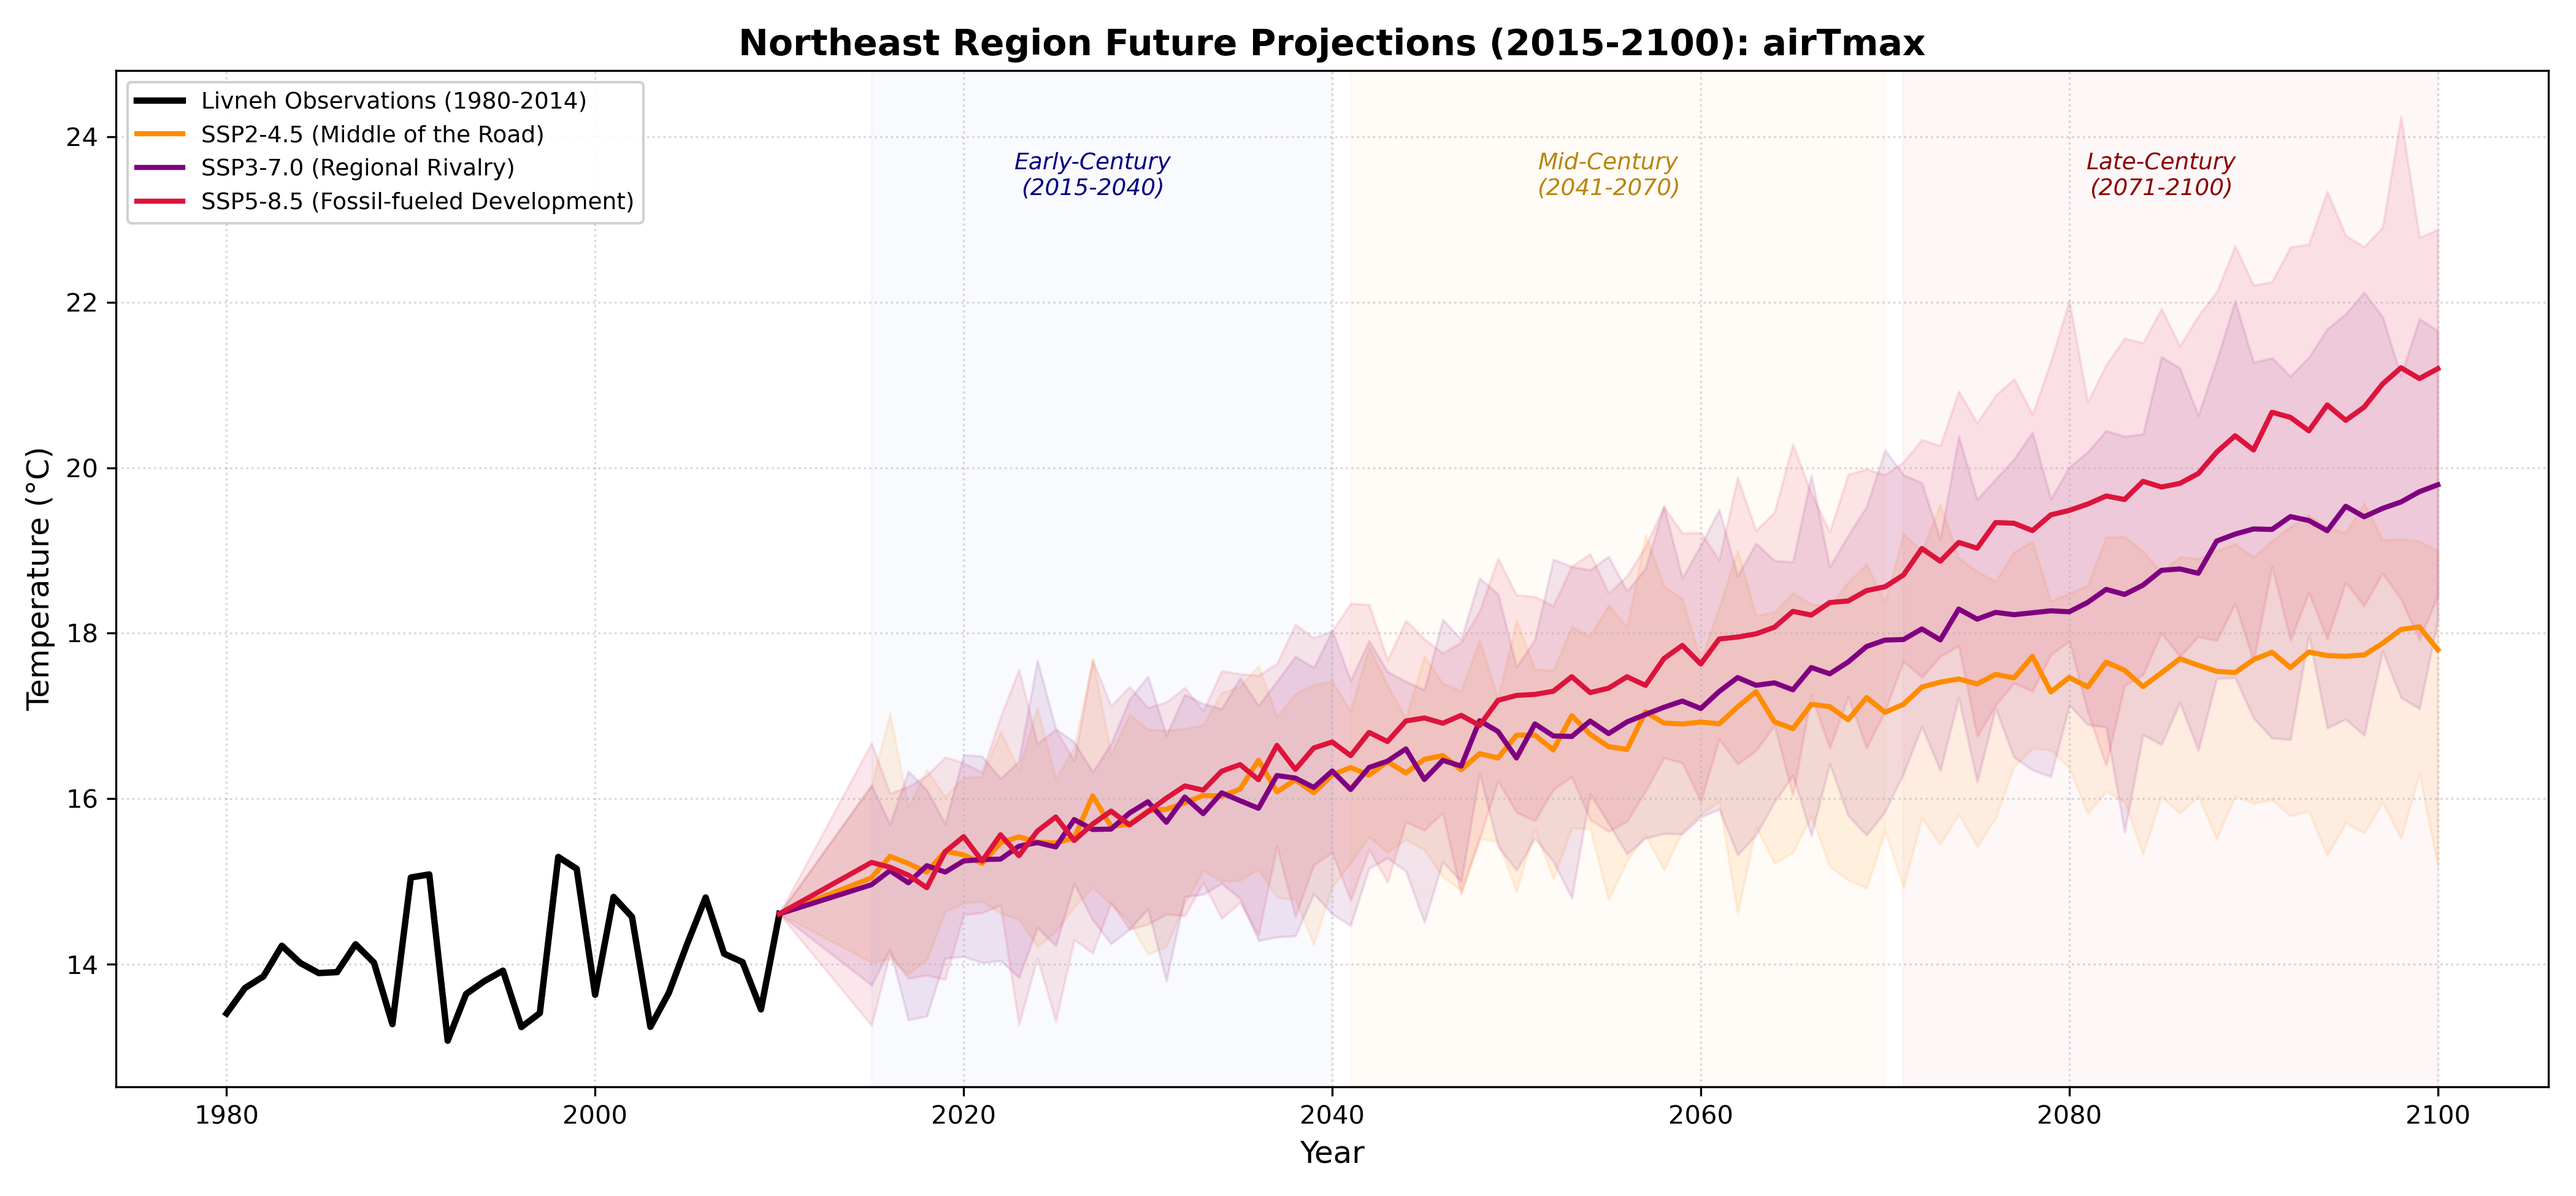
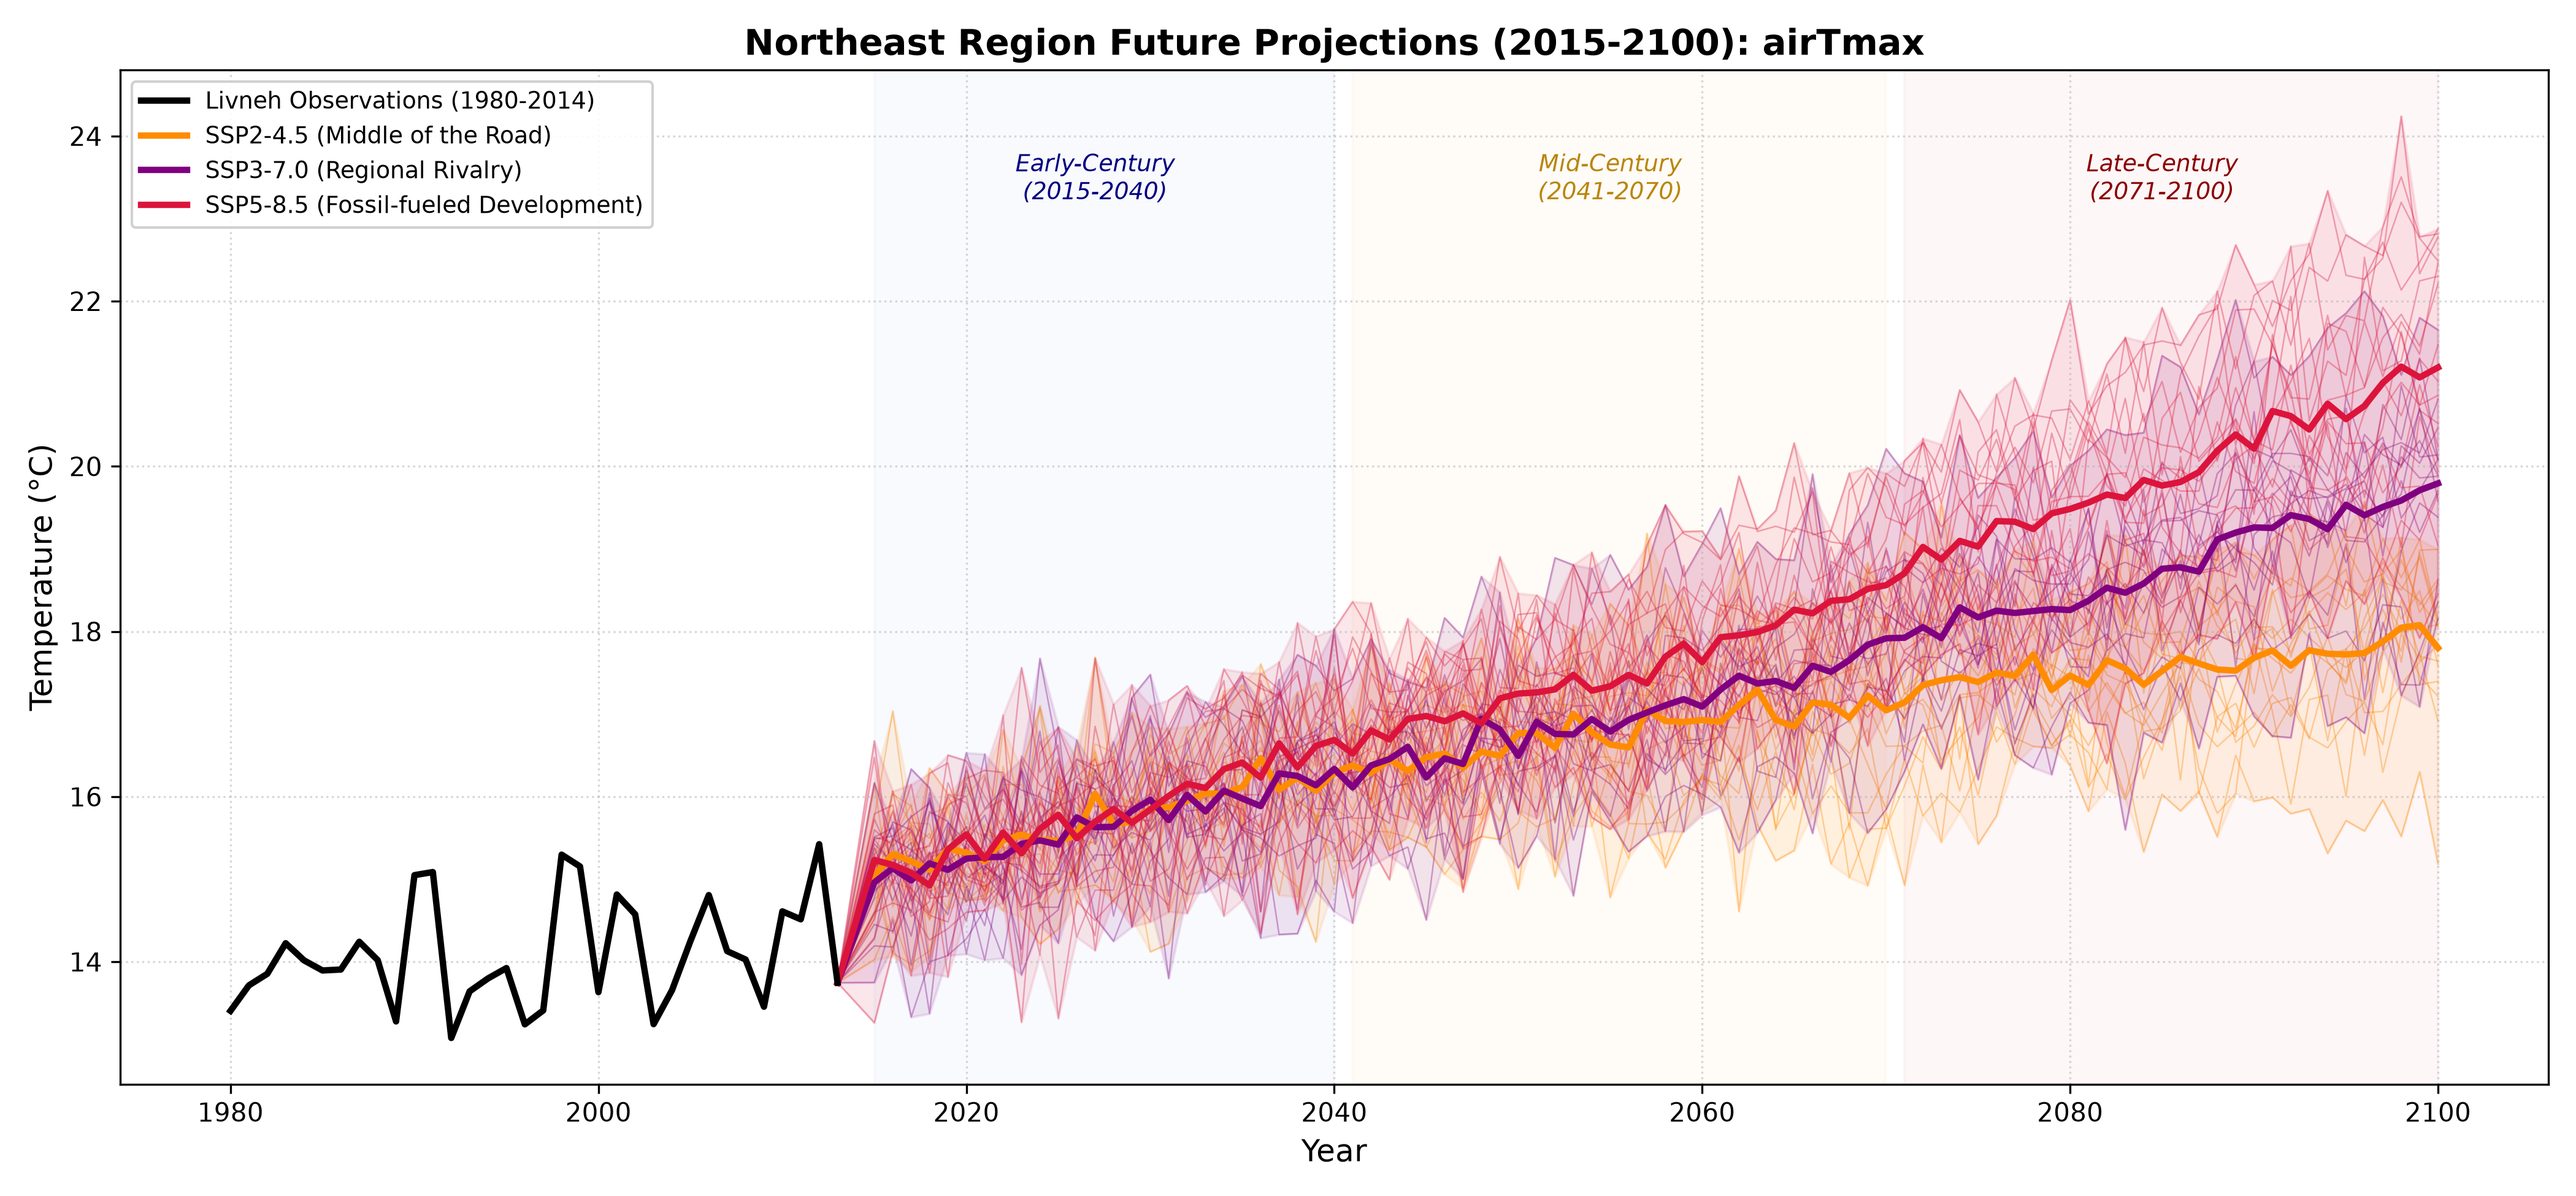
Added individual model trendlines for future scenarios in timeseries

diff --git a/future_scenarios_timeseries.py b/future_scenarios_timeseries.py
@@ -7,7 +7,7 @@ import geopandas as gpd
 import regionmask
 
 # paths
-LIVNEH_REF = os.path.expanduser("~/LOCA2-WBM_code/livneh_monthly_1980-2014.nc")
+LIVNEH_REF = os.path.expanduser("~/LOCA2-WBM_code/livneh_monthly_1980-2013.nc")
 MODEL_DIR = "/net/nfs/echo/ankaa/LOCA2-WBM_output/LOCA2-WBM_future"
 OUTPUT_DIR = os.path.expanduser("~/LOCA2-WBM_code/plots")
 SHAPEFILE_PATH = os.path.expanduser(
@@ -50,7 +50,7 @@ for model_var, livneh_var in var_mapping.items():
         obs_annual = obs_ts.resample(time='1YS').mean()
 
         ax.plot(obs_annual['time'].dt.year, obs_annual.values, color='black',
-                linewidth=2.5, label='Livneh Observations (1980-2014)')
+                linewidth=2.5, label='Livneh Observations (1980-2014)', zorder=4)
 
         # use last obs point to bridge year gap
         obs_bridge_year = int(obs_annual['time'].dt.year.values[-1])
@@ -93,7 +93,7 @@ for model_var, livneh_var in var_mapping.items():
 
                     # resample to annual timeline
                     annual_mean = spatial_mean.resample(time='1YS').mean()
-                    all_model_series.append(annual_mean.load())
+                    all_model_series.append((model_name, annual_mean.load()))
 
             except Exception as e:
                 print(
@@ -102,7 +102,8 @@ for model_var, livneh_var in var_mapping.items():
 
         if all_model_series:
             # concatenate individual model arrays
-            ensemble_ds = xr.concat(all_model_series, dim='model')
+            ensemble_ds = xr.concat(
+                [series for _, series in all_model_series], dim='model')
             ensemble_mean = ensemble_ds.mean(dim='model')
             years = ensemble_mean['time'].dt.year
 
@@ -111,9 +112,21 @@ for model_var, livneh_var in var_mapping.items():
             mean_connected = np.concatenate(
                 [[obs_bridge_value], ensemble_mean.values])
 
+            # plot thin individual model trendlines for this scenario
+            for model_name, model_series in all_model_series:
+                model_years = model_series['time'].dt.year
+                model_years_connected = np.concatenate(
+                    [[obs_bridge_year], model_years])
+                model_values_connected = np.concatenate(
+                    [[obs_bridge_value], model_series.values])
+                ax.plot(model_years_connected, model_values_connected,
+                        color=ssp_info['color'], linewidth=0.6, alpha=0.35,
+                        zorder=1, label='_nolegend_')
+
             # plot scenario multi-model average trendline
             ax.plot(years_connected, mean_connected,
-                    color=ssp_info['color'], linewidth=2, label=ssp_info['label'])
+                    color=ssp_info['color'], linewidth=2.5, label=ssp_info['label'],
+                    zorder=3)
 
             # shade the spread representing cross-model variation bounds
             ensemble_annual = ensemble_ds.resample(time='1YS').mean()
@@ -122,11 +135,11 @@ for model_var, livneh_var in var_mapping.items():
                 dim='model').values.flatten()
 
             # prepend obs value for spread too (zero spread at the bridge point)
-        min_connected = np.concatenate([[obs_bridge_value], ensemble_min])
-        max_connected = np.concatenate([[obs_bridge_value], ensemble_max])
+            min_connected = np.concatenate([[obs_bridge_value], ensemble_min])
+            max_connected = np.concatenate([[obs_bridge_value], ensemble_max])
 
-        ax.fill_between(years_connected, min_connected,
-                        max_connected, color=ssp_info['color'], alpha=0.10)
+            ax.fill_between(years_connected, min_connected,
+                            max_connected, color=ssp_info['color'], alpha=0.10)
 
     # era shading
     ax.axvspan(2015, 2040, color='royalblue', alpha=0.03)
